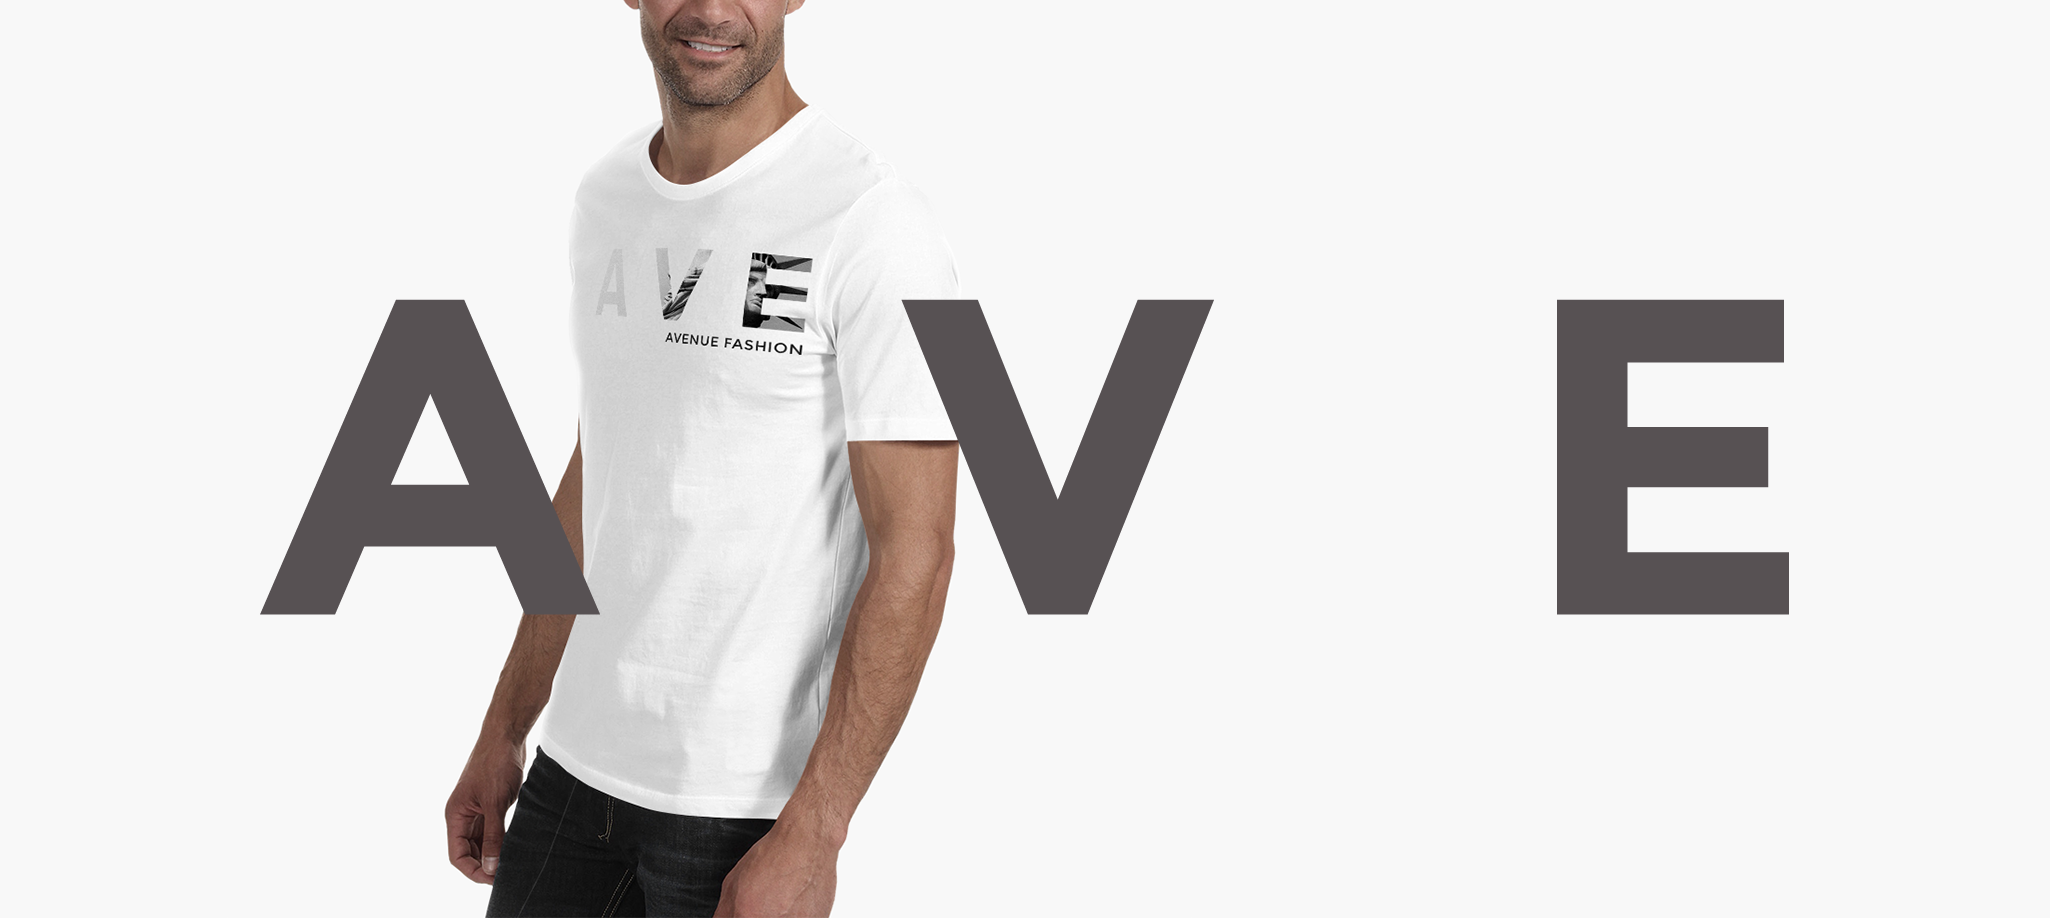
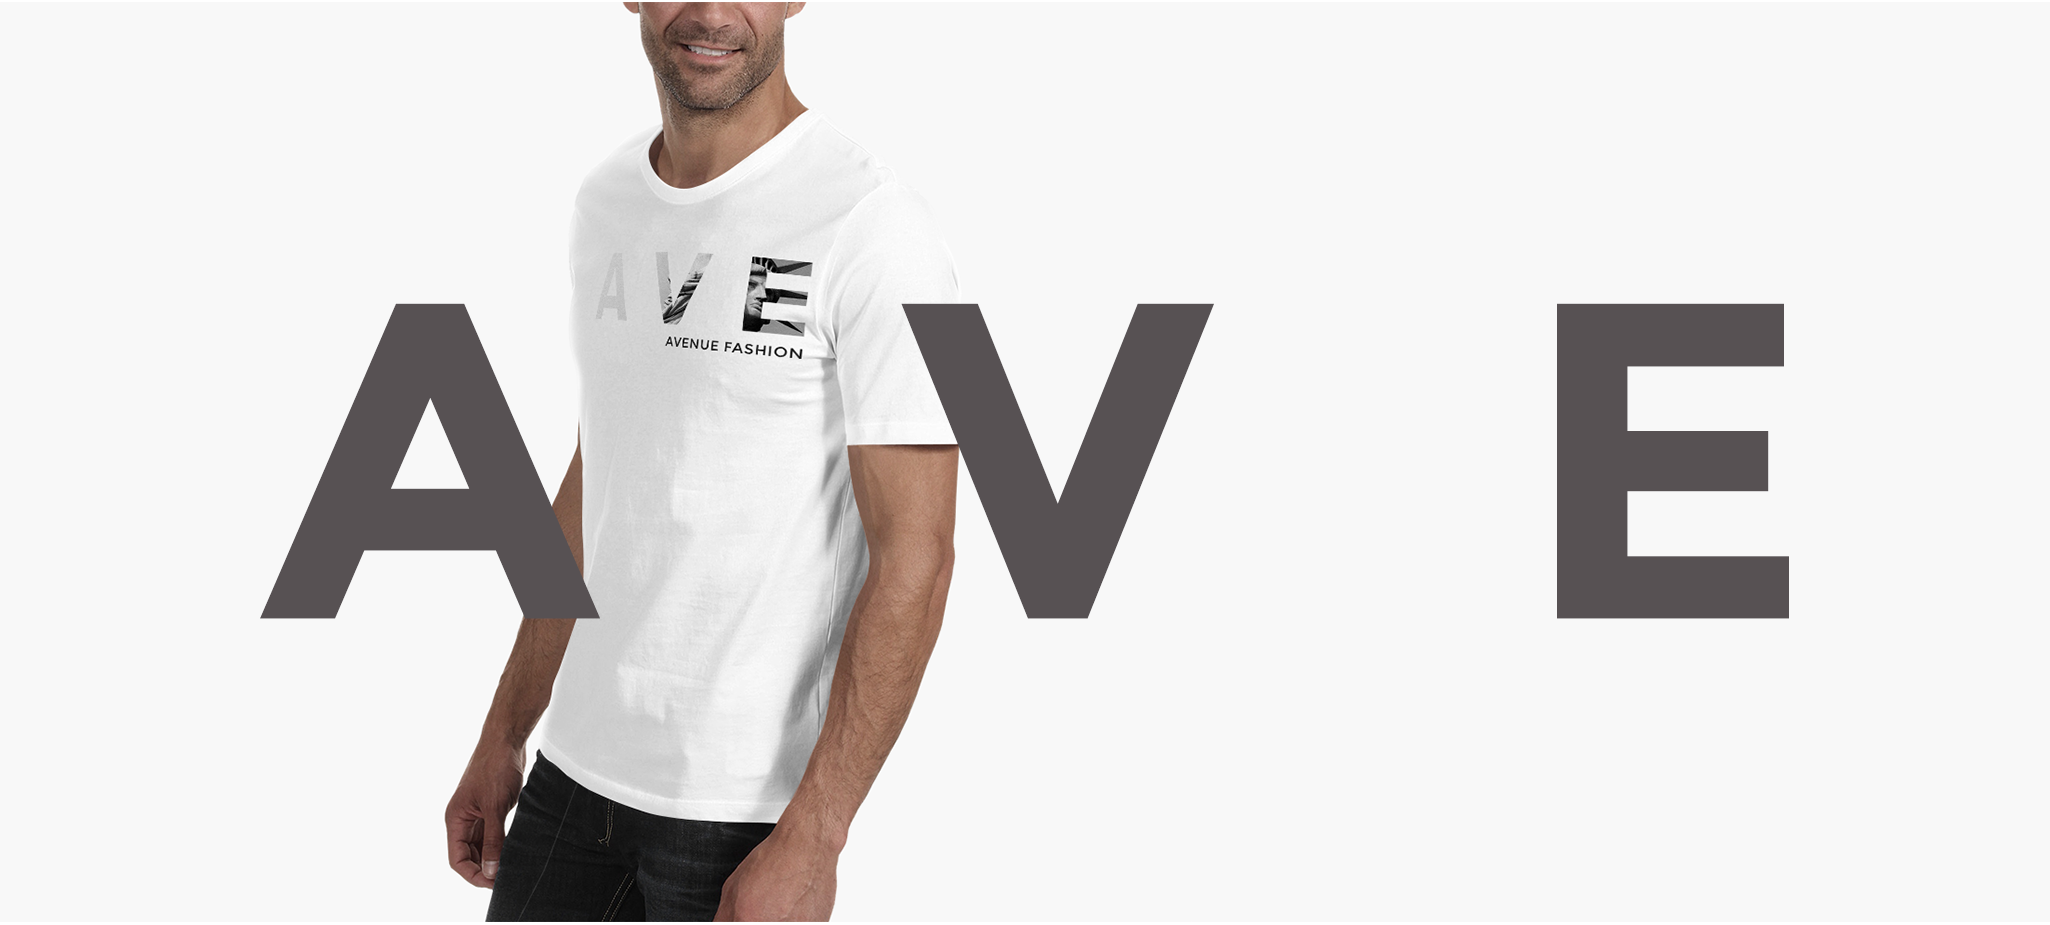
Enter

diff --git a/index.html b/index.html
@@ -13,23 +13,9 @@
     <link rel="stylesheet" href="https://use.fontawesome.com/releases/v5.5.0/css/all.css" integrity="sha384-B4dIYHKNBt8Bc12p+WXckhzcICo0wtJAoU8YZTY5qE0Id1GSseTk6S+L3BlXeVIU" crossorigin="anonymous">
     <link rel="stylesheet" href="/fonts/monserrat/MontserratAlternates-Bold.otf">
 
-    <style type="text/css">
-        .headingPart{
-            background: url('/imgs/slider.png');
-            min-width: 100%;
-            min-height: 919px;
-            margin: 0;
-            background-repeat: no-repeat center;
-            -webkit-background-size: cover;
-            -moz-background-size: cover;
-            -o-background-size: cover;
-            background-size: cover;
-            background-position: top;
-        }
-    </style>
 </head>
 <body>
-    <header class="header">
+    <div class="header">
         <div class="topnav">
             <a class="currency" href="#">Currency: GBP <i style="color:#777" class="fas fa-angle-down"></i></a>
             <div class="userArea">
@@ -38,7 +24,10 @@
                 <a class="cart" href="#"><i style="color:#fff; padding-right: 10px;" class="fas fa-shopping-cart"></i>Empty<i style="color:#fff; padding-left: 8px" class="fas fa-angle-down"></i></a>  
             </div>
         </div>
-    </header>
-    
+    </div>
+
+    <div class="main">
+        <img class="slider-image" src="/imgs/slider-new.png" alt="Empty">
+    </div>
 </body>
 </html>  

diff --git a/css/main.css b/css/main.css
@@ -149,3 +149,20 @@ a {
         text-align: center;
     }
 }
+
+.main{
+    background-color: #000;
+    position: relative;
+    display: inline-block;
+    width: 100%;
+    height: auto;
+}
+
+.slider-image{
+    position: absolute;
+    left: 20%;
+    top: 0px;
+    margin: 0;
+    padding: 0;
+    z-index: 20;
+}
